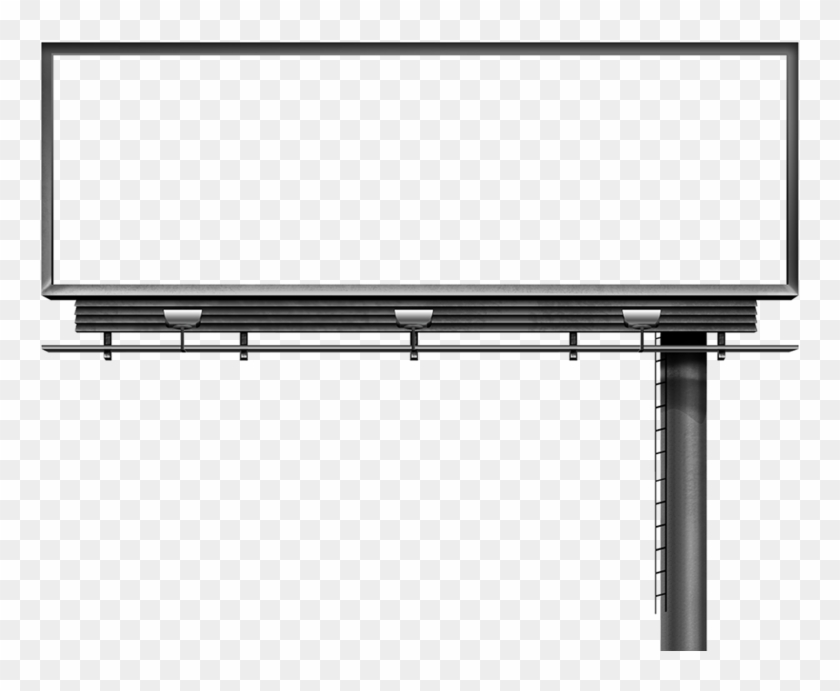
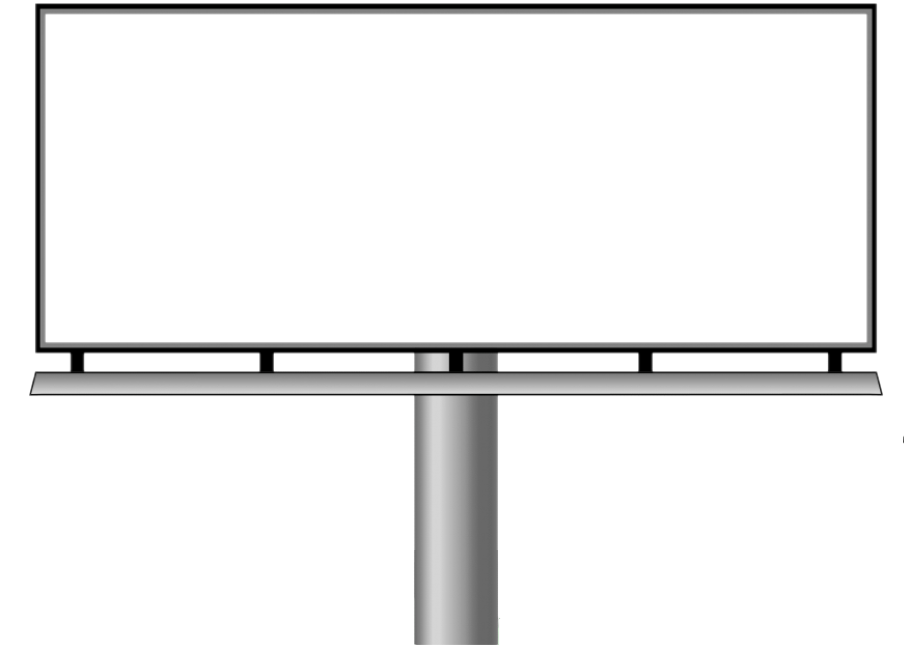
Update README

Changed region(s): [[0.031, 0.0, 0.9595, 1.0]]

diff --git a/index.html b/index.html
@@ -48,7 +48,7 @@
 
   <section id="homeSection">
     <img src="./assets/images/raven.gif" alt="Raven" class="raven" />
-    <img src="./assets/images/billboard3.png" alt="Billboard" class="billboard" />
+    <img src="./assets/images/billboard.png" alt="Billboard" class="billboard" />
     <img src="./assets/images/light.png" alt="Light" class="light" />
     <div class="poster">
 			<ol>

diff --git a/README.md b/README.md
@@ -1,2 +1,5 @@
 # Welcome to my Portfolio!
 
+![image](./assets/images/portfolio.png)
+
+[Open](https://nunuf.github.io/portfolio)
